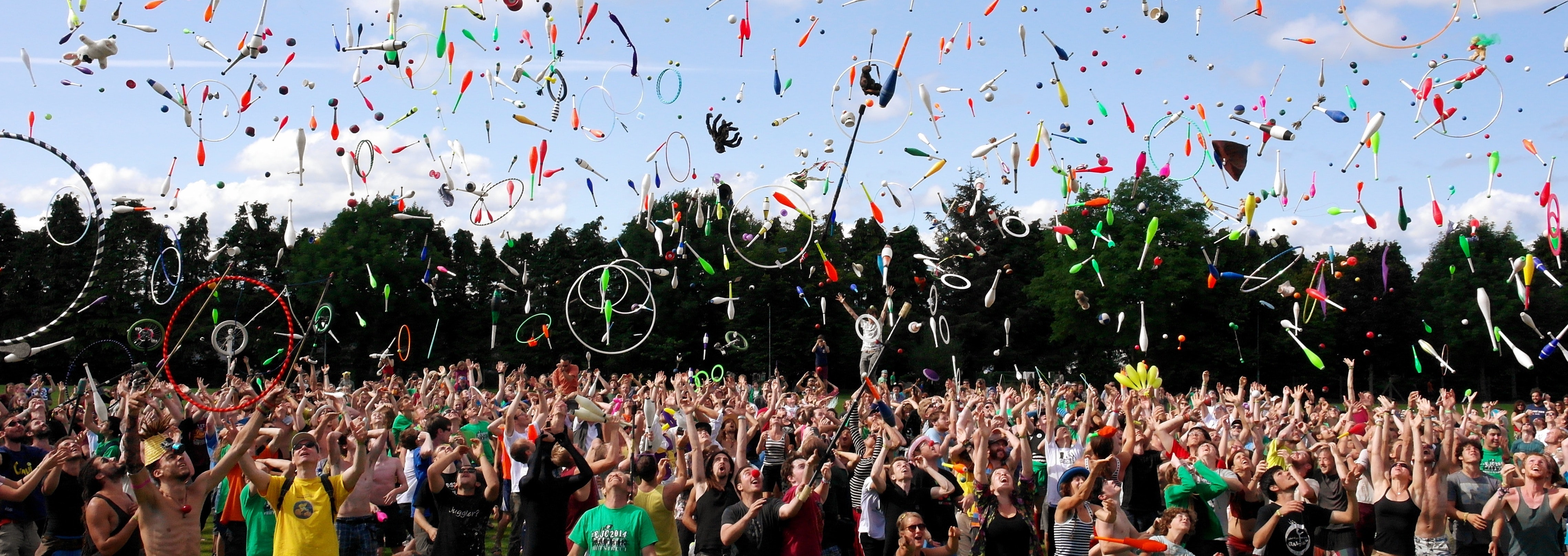
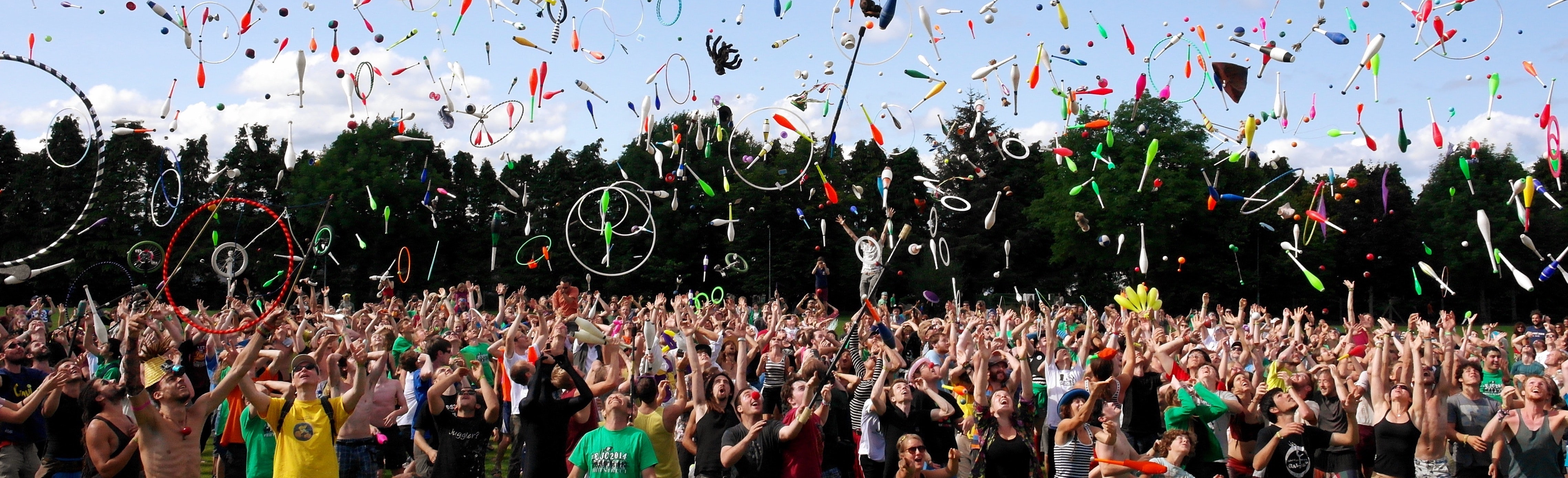
Adding purpose

diff --git a/index.html b/index.html
@@ -2,14 +2,29 @@
 <html>
 	<head>
 		<title> Think Global </title>
+		<script src = "https://ajax.googleapis.com/ajax/libs/jquery/3.4.1/jquery.min.js"></script>
+		<link href = "style.css" rel = "stylesheet">
 	</head>
 	<body> 
+		<header> 
+			<div class = "container">
+				<img src = "images/event.jpg" alt="banner">
+				<h1> Think Global </h1>
+			</div>
+		</header>
 		<section>
-			Body text...
+			<h2> Think Global's Purpose </h2>
+			<article id = "statement">
+				<p> The purpose of Think Global is to raise cultural awareness about differences between people's beliefs and religion through educational and cultural exchange programmes for students. These programmes are designed to present the opportunity to understand and learn various societal and cultural aspects of different nations. Through the programmes, attendants can develop themselves through cross-cultural experiences abroad while working towards education or a cause important to attendants for personal and professional development. 
+				<p> The core values of Think Global are acceptance, respect and appreciation of the cultural diversity that exists around the world. Think Global's vision is a world where everyone is accepting of others and their rights to live in peace regardless of beliefs, cultures, identify or way of life. 
+			</article>
+			<aside id = "logo"> 
+				<img src = "images/logo.png" alt = "logo">
+			</aside>
 		</section>
-		<footer>
+	<!--	<footer>
 			Footer text...
-		</footer>
+		</footer> -->
 	</body> 
 </html>
 	

diff --git a/style.css b/style.css
@@ -1,10 +1,80 @@
 html { 
 	background-color: #C2E3F1;
 	padding: 5px;
+	width:70%;
+	margin: auto;
 }
 
 body { 
-	background-color: #95C1E1 ;
-	width: 1000px;
-	margin: 0px auto;
+	background-color: rgb(251, 252, 252);
+	width: 100%;
+	margin: 1px auto;
+	height: 1000px;
+	font: 15px "Verdana", "Genera", sans-serif;
+	
+}
+
+header img {
+	width: 100%;
+	padding: 0;
+	opacity: 0.7;
+	
+}
+
+.container {
+	position: relative;
+	width: 100%;
+}
+
+section {
+	padding: 10px;
+}
+h1 {
+    position: absolute; 
+    top: 55%; 
+    left: 0; 
+    width: auto; 
+	color: white;
+	padding: 15px;
+	margin: -10px;
+	font: bold 45px Helvetica, Sans-Serif; 
+	background: rgba(69, 169, 211, 0.9);
+}
+
+h2 {
+	font: bold 30px Helvetica, Sans-Serif; 
+}
+
+
+#statement {
+	float: left;
+	width: 75%; 
+	margin: 0%;
+	padding: 0; 
+	display: inline-block;
+	/* background-color: purple; */ 
+	
+}
+
+#logo {
+	float: right;
+	width: 23%; 
+	padding-left: 2%;
+	display: inline-block;
+	/* background-color: green; */
+	text-align: center;
+	
+	
+}
+
+#logo img {
+	width: 80%;
+	margin: auto;
+	padding: 4px;
+}
+
+footer {
+	display: block;
+	background-color: blue;
+	bottom: 10px;
 }
